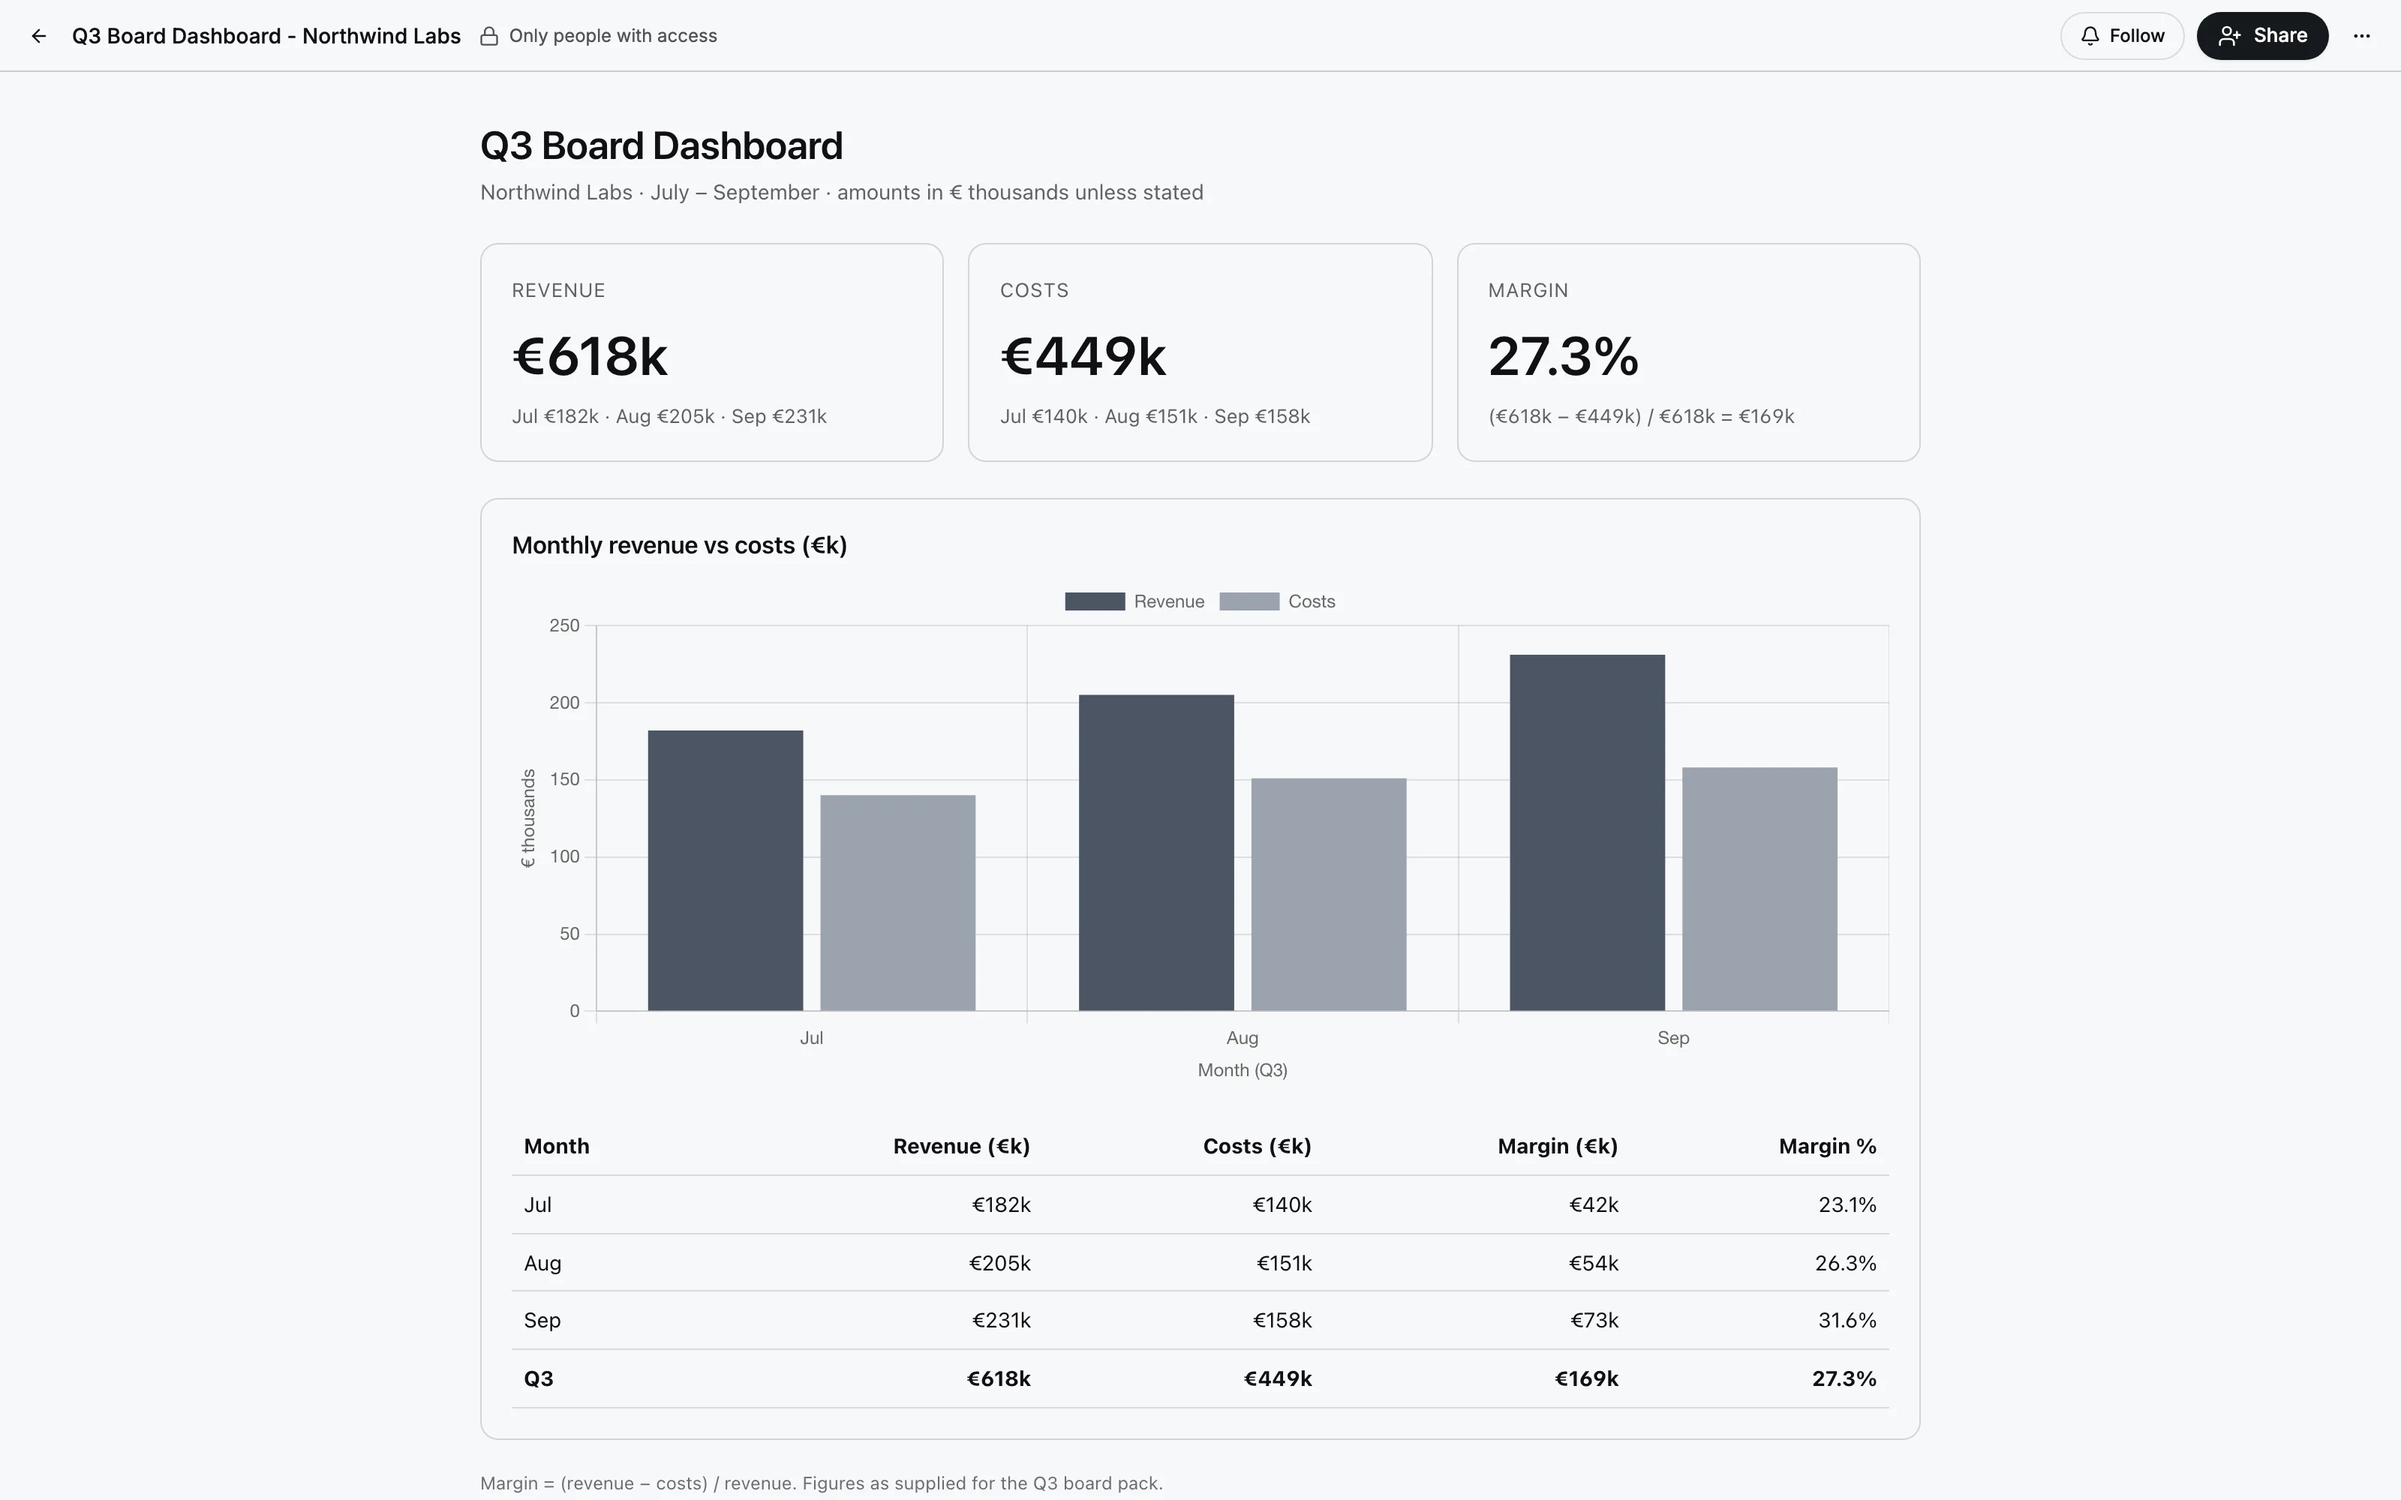
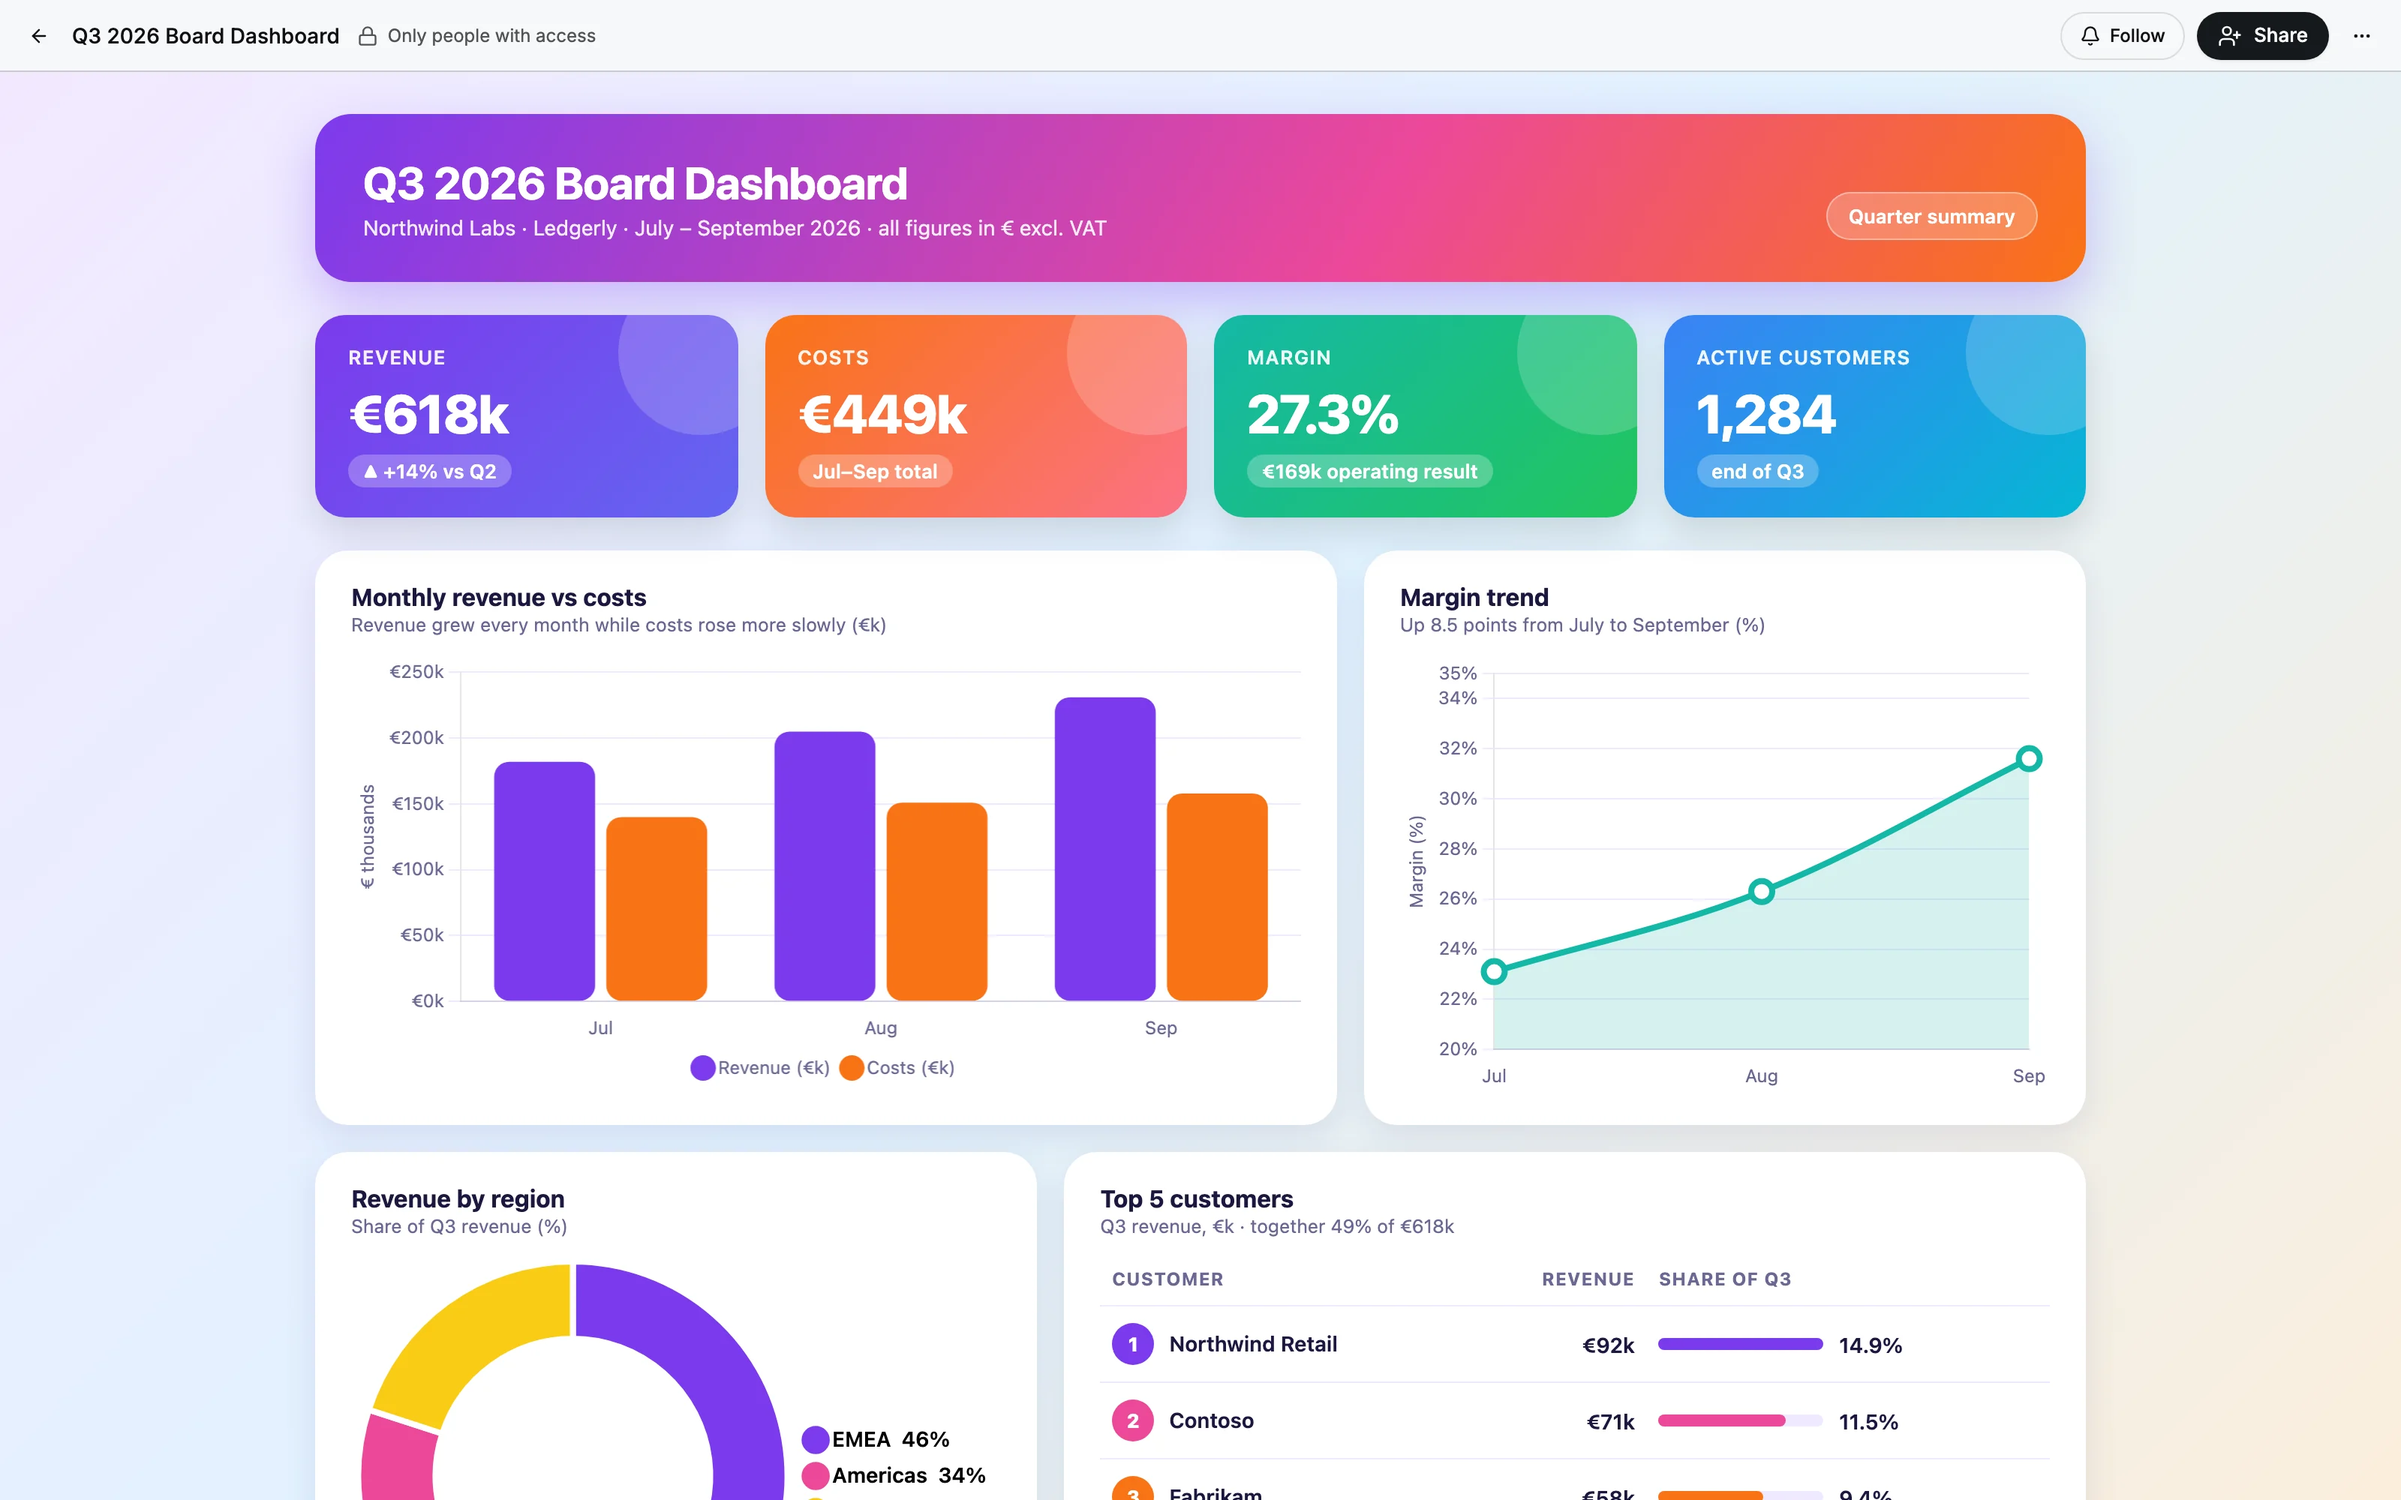
docs(readme): show a colourful app an agent published

diff --git a/README.es.md b/README.es.md
@@ -1,4 +1,4 @@
-<!-- source_sha: f119e869314b -->
+<!-- source_sha: 5aed1d921f05 -->
 
 <div align="center">
 
@@ -80,7 +80,7 @@ Activa herramientas desde tarjetas ilustradas y dale al borrador un trabajo real
 
 Un agente publica un dashboard o un informe como página con enlace estable y versiones.
 
-<a href="docs/assets/readme/highlight-app.webp"><img src="docs/assets/readme/highlight-app.webp" alt="El dashboard del tercer trimestre para la junta que un Finance Analyst publicó desde el chat como app: tarjetas de KPI, un gráfico mensual de ingresos frente a costes y una tabla" width="100%"></a>
+<a href="docs/assets/readme/highlight-app.webp"><img src="docs/assets/readme/highlight-app.webp" alt="El dashboard del consejo del Q3 2026 que un Finance Analyst publicó desde el chat como app: tarjetas KPI de colores, ingresos frente a costes por mes, la tendencia del margen, ingresos por región y los principales clientes" width="100%"></a>
 
 ### Más de 4.700 servidores MCP
 

diff --git a/README.de.md b/README.de.md
@@ -1,4 +1,4 @@
-<!-- source_sha: f119e869314b -->
+<!-- source_sha: 5aed1d921f05 -->
 
 <div align="center">
 
@@ -80,7 +80,7 @@ Schalte Tools über illustrierte Karten ein und gib dem Entwurf im Test-Chat dan
 
 Ein Agent veröffentlicht ein Dashboard oder einen Bericht als Seite mit festem Link und Versionen.
 
-<a href="docs/assets/readme/highlight-app.webp"><img src="docs/assets/readme/highlight-app.webp" alt="Das Q3-Dashboard für den Vorstand, das ein Finance Analyst aus dem Chat als App veröffentlicht hat: KPI-Karten, ein monatliches Diagramm von Umsatz gegen Kosten und eine Tabelle" width="100%"></a>
+<a href="docs/assets/readme/highlight-app.webp"><img src="docs/assets/readme/highlight-app.webp" alt="Das Vorstands-Dashboard für Q3 2026, das ein Finance Analyst aus dem Chat als App veröffentlicht hat: farbige KPI-Karten, Umsatz gegen Kosten pro Monat, der Margentrend, Umsatz nach Region und die größten Kunden" width="100%"></a>
 
 ### Über 4.700 MCP-Server
 

diff --git a/README.pl.md b/README.pl.md
@@ -1,4 +1,4 @@
-<!-- source_sha: f119e869314b -->
+<!-- source_sha: 5aed1d921f05 -->
 
 <div align="center">
 
@@ -80,7 +80,7 @@ Włączasz narzędzia z ilustrowanych kart, a potem dajesz wersji roboczej prawd
 
 Agent publikuje dashboard albo raport jako stronę ze stałym linkiem i wersjami.
 
-<a href="docs/assets/readme/highlight-app.webp"><img src="docs/assets/readme/highlight-app.webp" alt="Dashboard Q3 dla zarządu, który Finance Analyst opublikował z czatu jako aplikację: karty KPI, miesięczny wykres przychodów na tle kosztów i tabela" width="100%"></a>
+<a href="docs/assets/readme/highlight-app.webp"><img src="docs/assets/readme/highlight-app.webp" alt="Dashboard zarządu za Q3 2026, który Finance Analyst opublikował z czatu jako aplikację: kolorowe karty KPI, przychody i koszty w miesiącach, trend marży, przychody według regionów i najwięksi klienci" width="100%"></a>
 
 ### Ponad 4700 serwerów MCP
 

diff --git a/README.md b/README.md
@@ -78,7 +78,7 @@ Switch tools on from illustrated cards, then give the draft a real job in the te
 
 An agent publishes a dashboard or a report as a page with a stable link and versions.
 
-<a href="docs/assets/readme/highlight-app.webp"><img src="docs/assets/readme/highlight-app.webp" alt="The Q3 board dashboard a Finance Analyst published from chat as an app: KPI cards, a monthly revenue against costs chart and a table" width="100%"></a>
+<a href="docs/assets/readme/highlight-app.webp"><img src="docs/assets/readme/highlight-app.webp" alt="The Q3 2026 board dashboard a Finance Analyst published from chat as an app: colourful KPI cards, revenue against costs by month, the margin trend, revenue by region and the top customers" width="100%"></a>
 
 ### 4,700+ MCP servers
 
